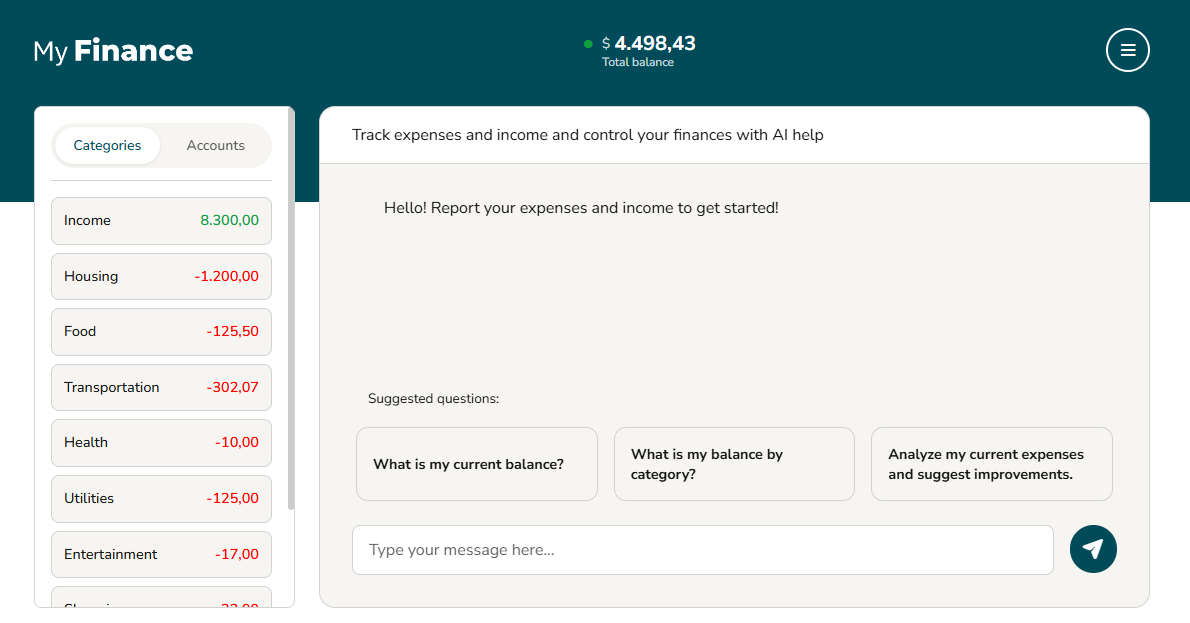
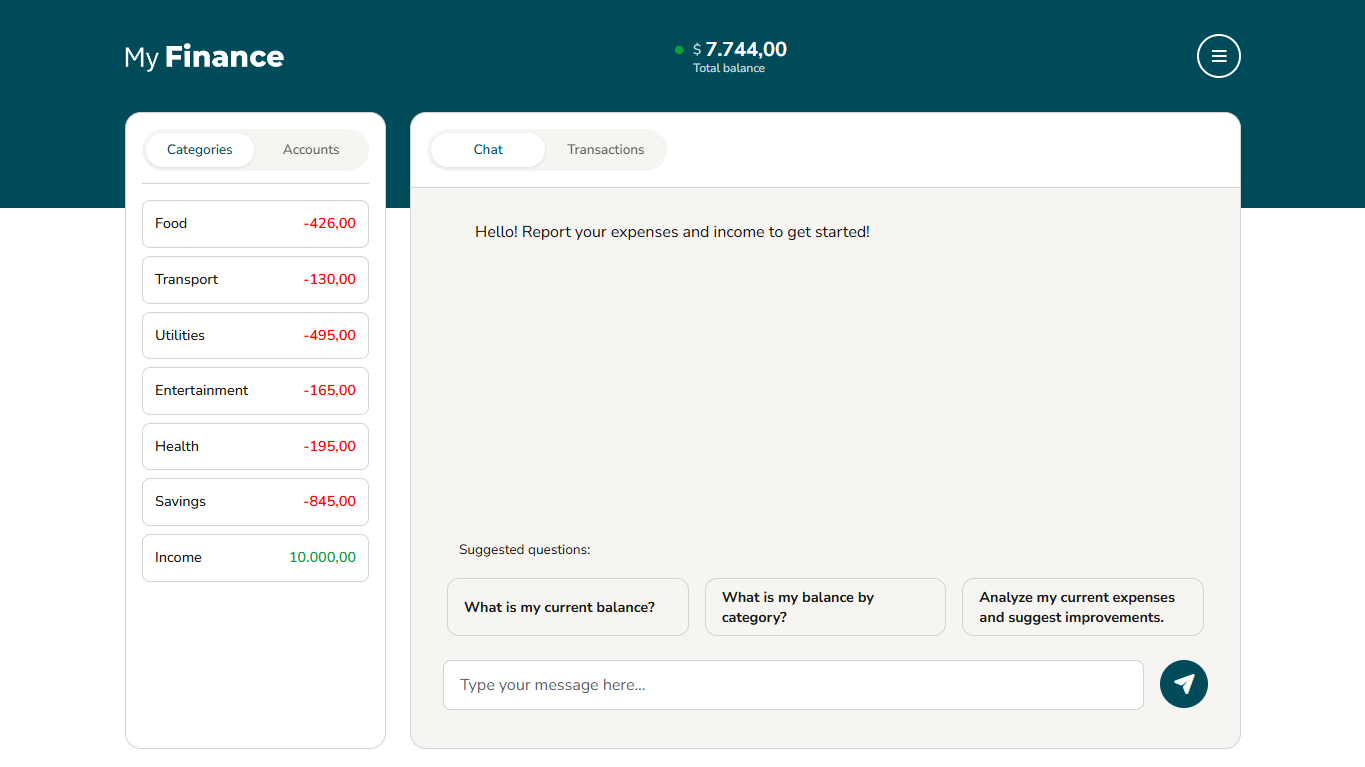
adding new images

diff --git a/README.md b/README.md
@@ -2,6 +2,16 @@
 
 ![MyFinance](myfinance.png)
 
+**Intelligent Chat Interface** - Register transactions using natural language with AI-powered assistance. The system understands your input and automatically categorizes expenses, detects amounts, and assigns them to the correct bank account.
+
+![MyFinanceTransactions](myfinance2.png)
+
+**Advanced Transaction Management** - Browse all your financial records with powerful filtering options by category, bank account, month, and year. View detailed transaction history with inline editing and deletion capabilities.
+
+![MyFinanceTransactions](myfinance3.png)
+
+**Real-time Balance Overview** - Monitor your finances with live balance calculations displayed in an elegant sidebar. Track spending by category and account with color-coded visual indicators for income (green) and expenses (red).
+
 Personal finance management system with AI-powered chat assistant using LangChain4j and Angular.
 
 ## Project Structure
